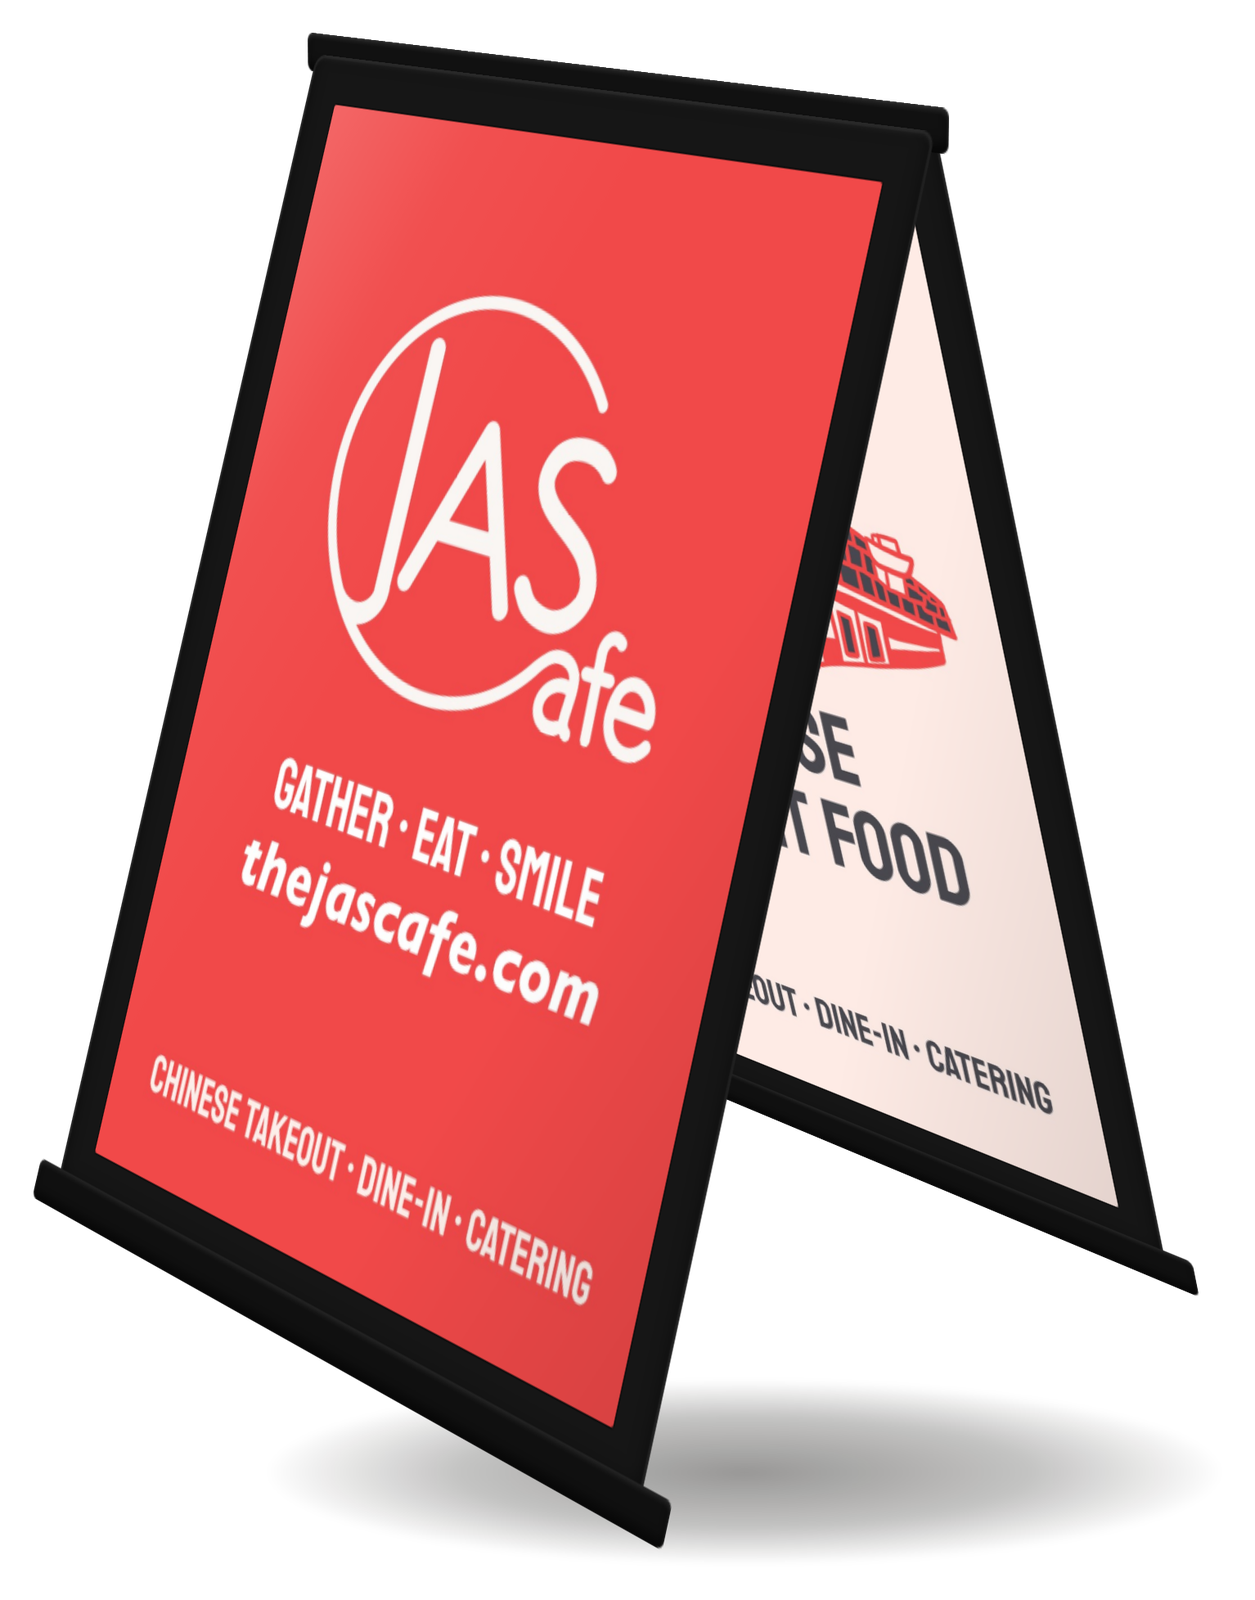
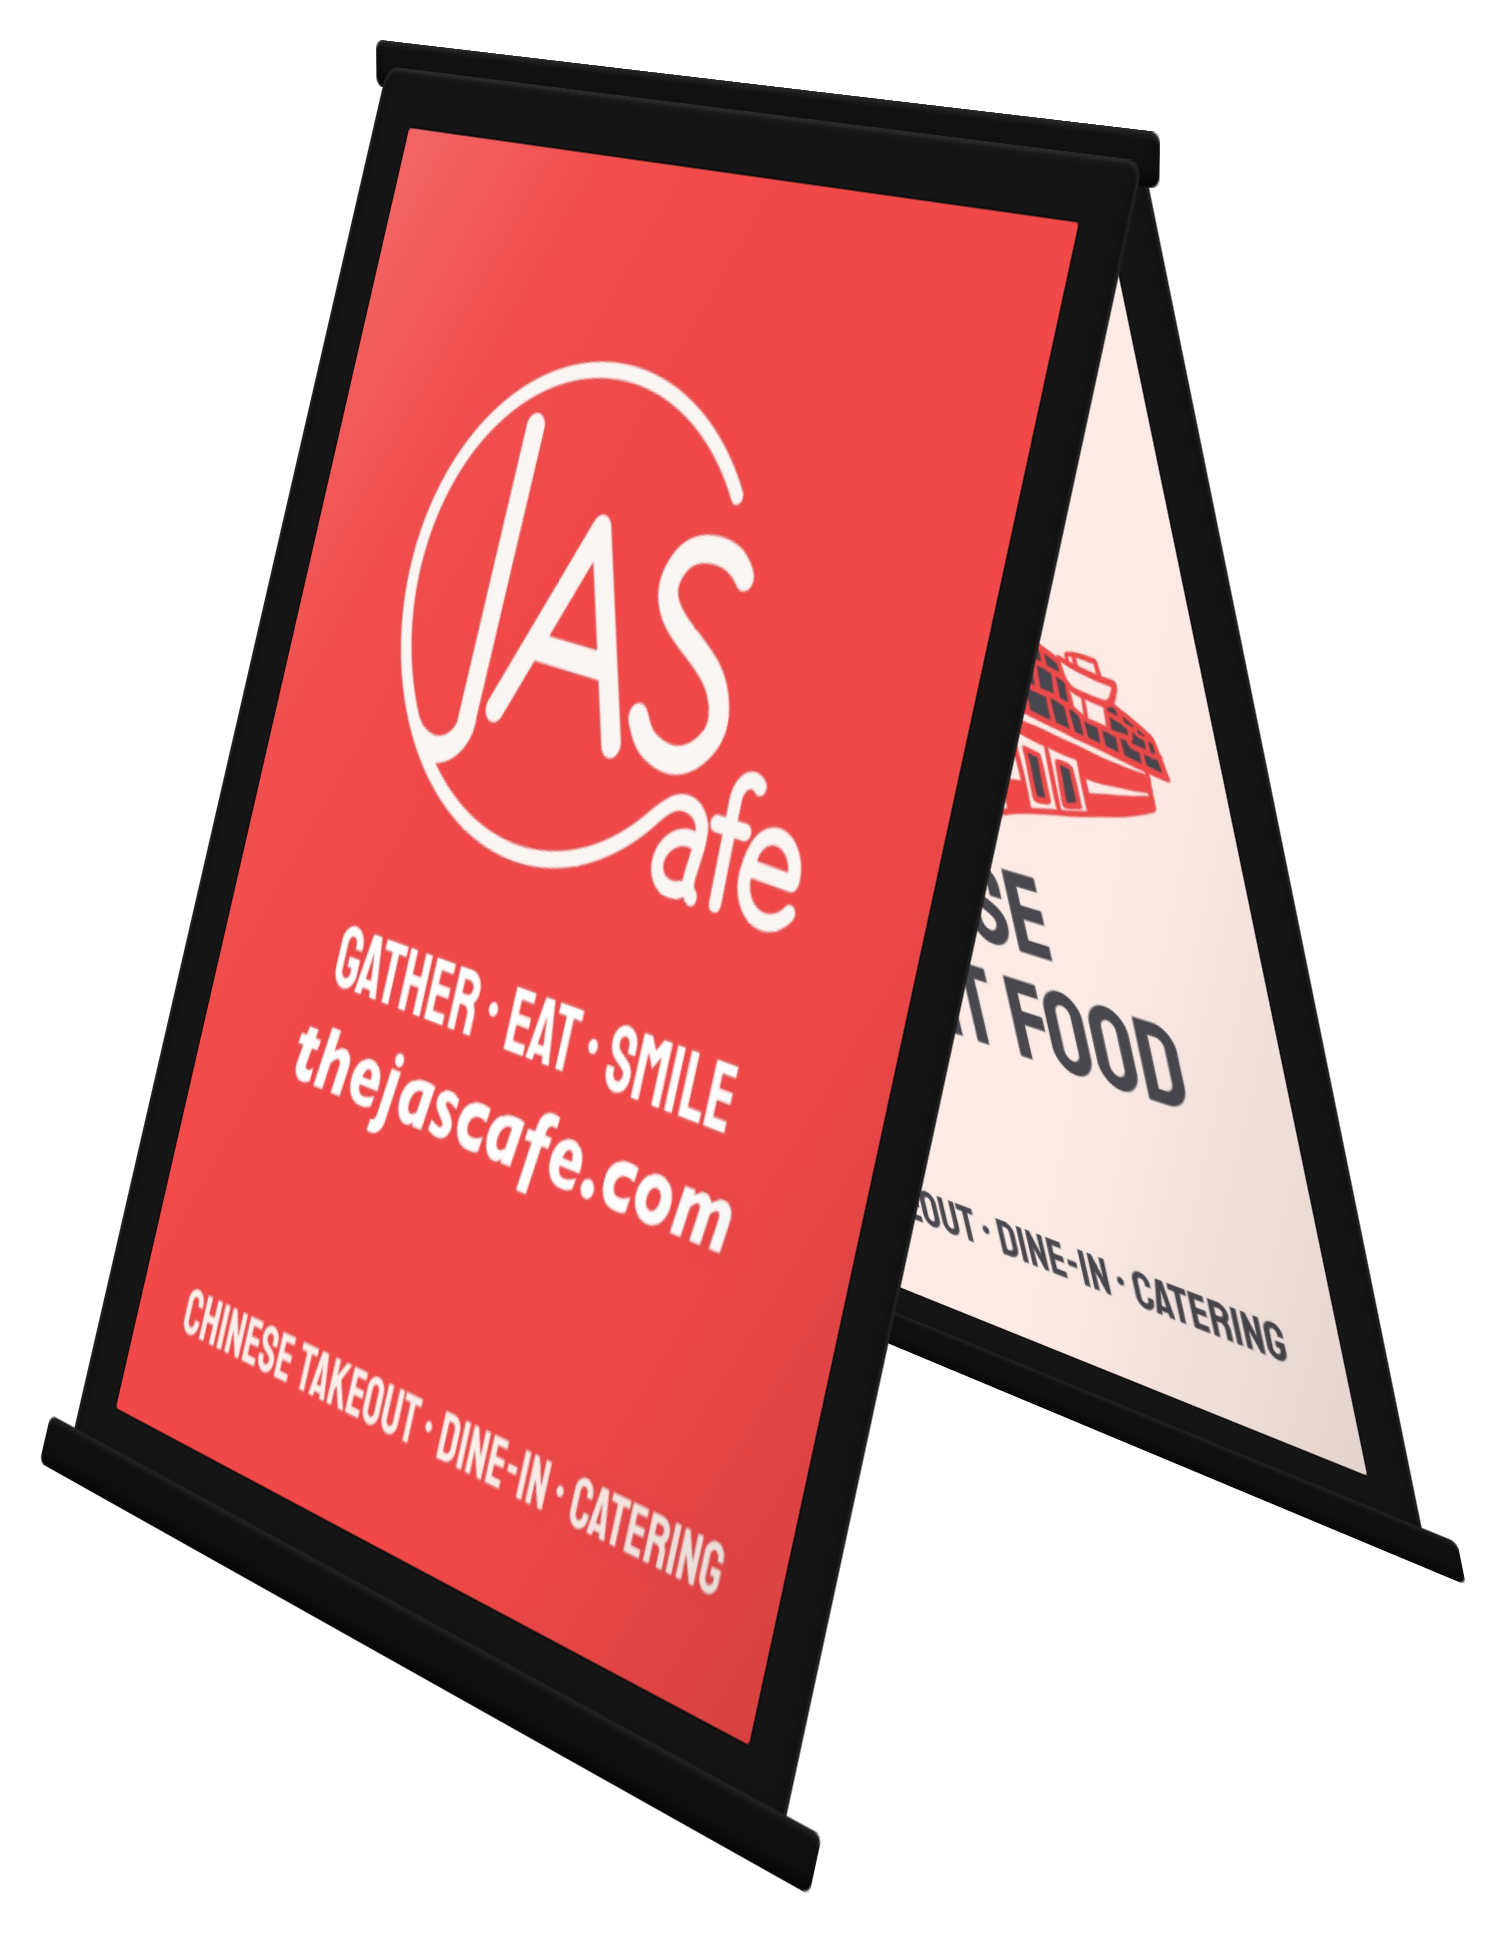
Jas Cafe: use shadow-free sandwich board on desktop too

diff --git a/work/jas-cafe.html b/work/jas-cafe.html
@@ -70,10 +70,7 @@
   <section class="cs-section cs-section--tint">
     <div class="cs-wrap cs-wrap--wide">
       <div class="cs-split"><div class="cs-media cs-media--2 cs-media--stack reveal">
-        <picture>
-          <source media="(max-width: 760px)" srcset="/img/jas/sandwich-board-mobile.png" />
-          <img src="/img/jas/sandwich-board.png" alt="Jas Cafe sandwich board" loading="lazy" />
-        </picture>
+        <img src="/img/jas/sandwich-board.png" alt="Jas Cafe sandwich board" loading="lazy" />
         <img src="/img/jas/front.jpg" alt="Window signage at Jas Cafe" loading="lazy" />
       </div><div class="cs-copy reveal"><h2>Sandwich Board</h2><p>The sandwich board needed to stand out on the street, using bold type and a simplified colour palette that reads clearly at a glance.</p></div></div>
     </div>

diff --git a/src/styles/case-study.css b/src/styles/case-study.css
@@ -208,7 +208,6 @@ body.case .cs-next { --pager-ink: color-mix(in srgb, var(--accent) 80%, black); 
   .cs-media .narrow { max-width: 100%; }
   .cs-split--reverse > .cs-copy { order: 2; }
   .cs-media--stack { grid-template-columns: 1fr; }
-  .cs-media--stack picture { display: contents; }
   .cs-media--stack img { max-width: 80%; }
   .cs-media--stack img:last-child { max-width: 100%; }
   .cs-pack { display: flex; flex-direction: column-reverse; }
